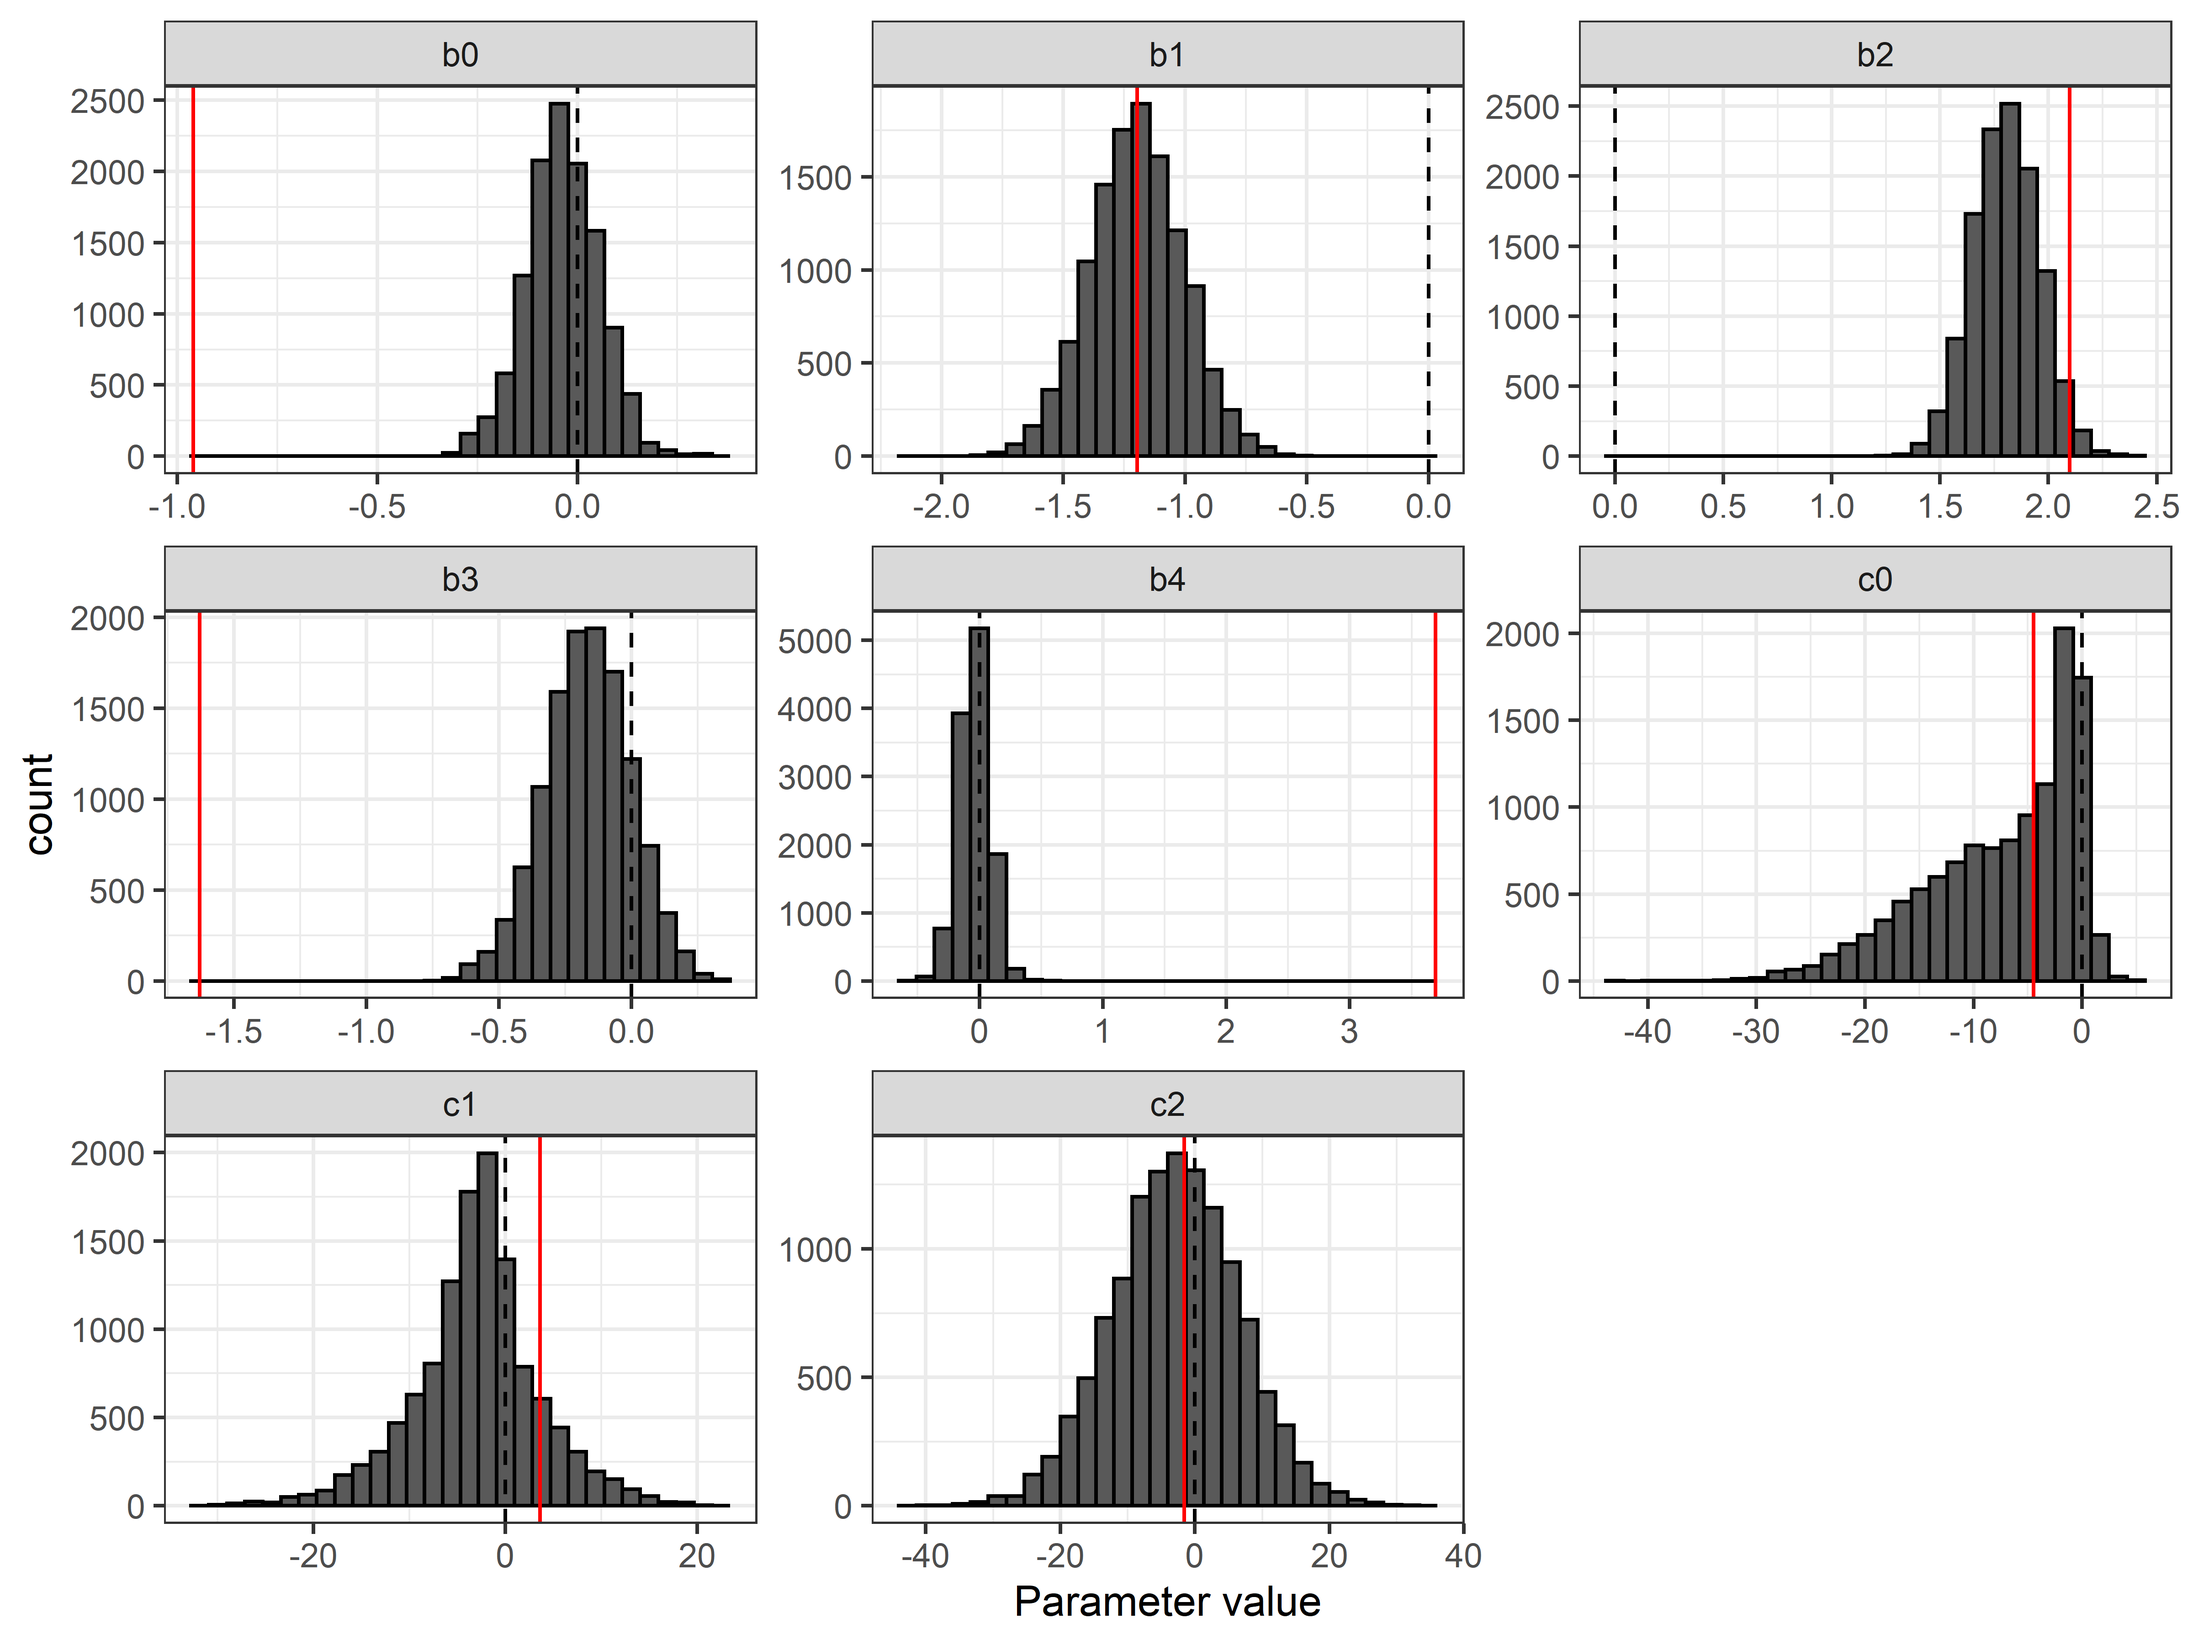
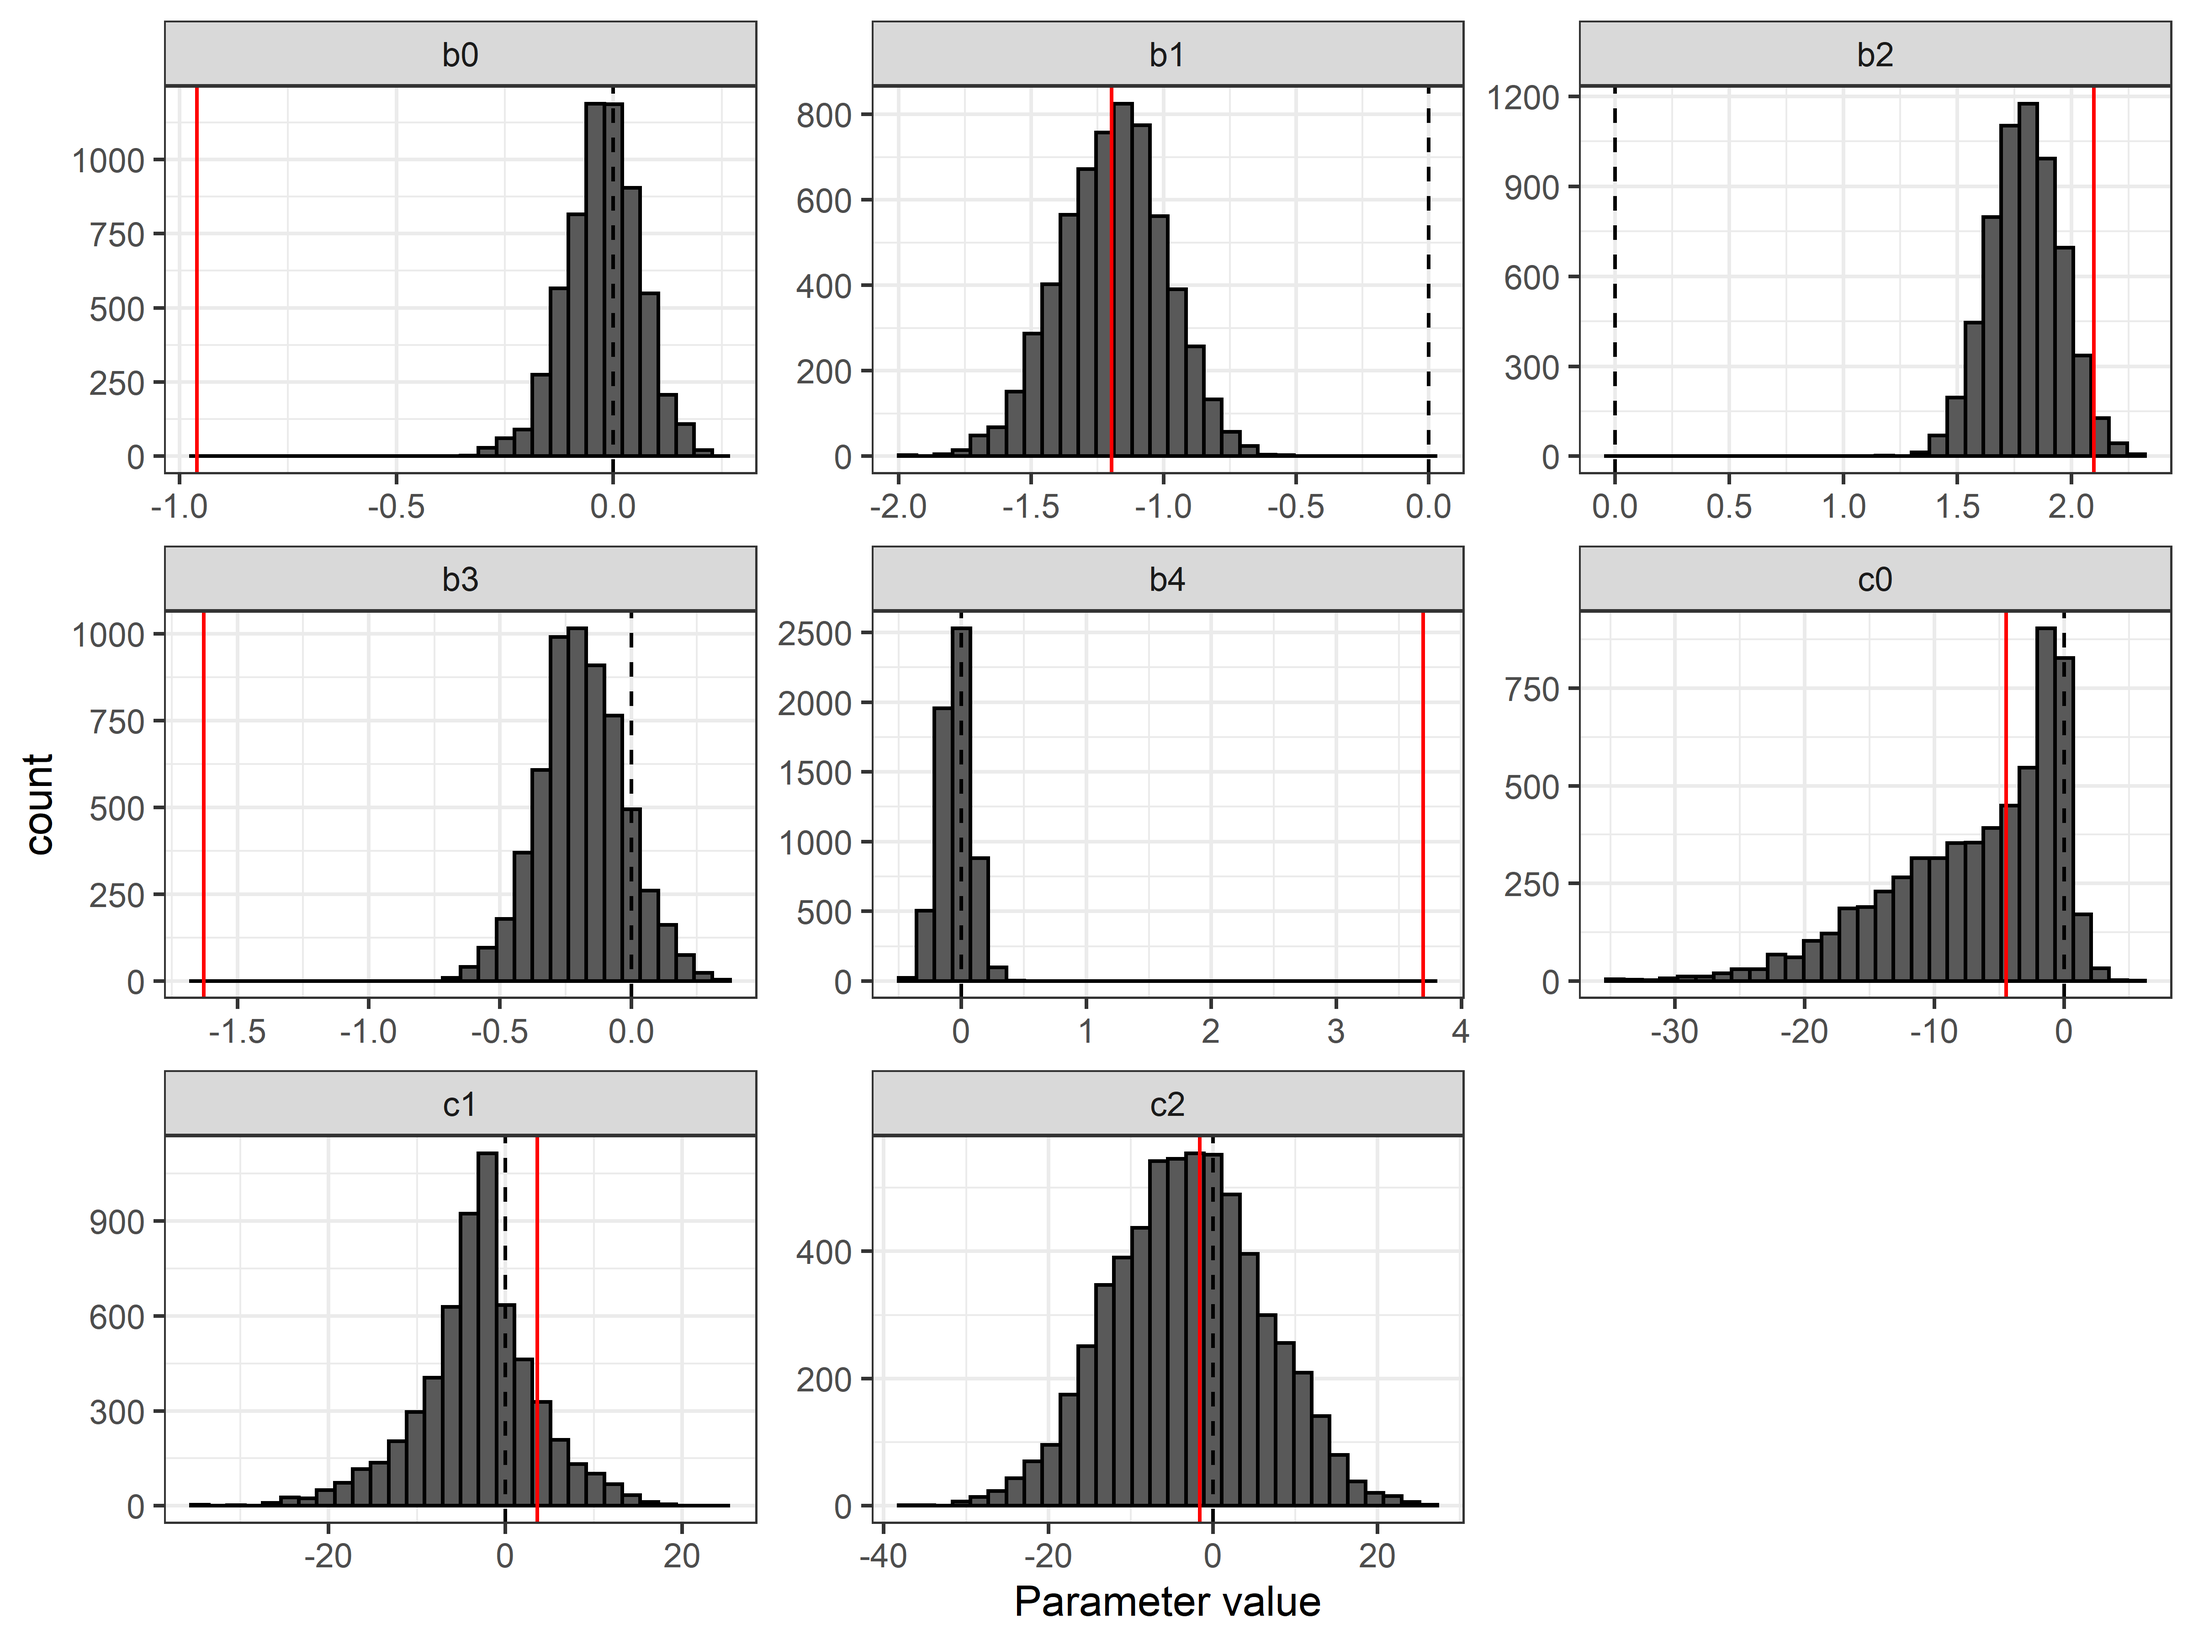
Added a plot

diff --git a/index.md b/index.md
@@ -348,7 +348,7 @@ list(
   tar_target(jags_simulated, 
              fit_mortality(data_jags_generated$data, n.chains = 3, n.iter = 5000, n.burn = 1000, n.thin = 1)), 
   tar_target(jags_simulated_2, 
-             fit_mortality_2(data_jags_generated_2$data, n.chains = 3, n.iter = 5000, n.burn = 1000, n.thin = 1)))
+             fit_mortality_2(data_jags_generated_2$data, n.chains = 3, n.iter = 5000, n.burn = 3000, n.thin = 1)))
 
 #> Establish _targets.R and _targets_r/targets/fit-mortality-France.R.
 ```
@@ -392,6 +392,8 @@ list(
              plot_harvest_probability(NFI_tree_alive_remeasure, NFI_plot_remeasure, NFI_tree_alive)),
   tar_target(plot_probability_to_be_harvested2, 
              plot_harvest_probability2(NFI_tree_alive_remeasure, NFI_plot_remeasure, NFI_tree_alive)), 
+  tar_target(fig_status_disturbance, 
+             plot_status_disturbance(NFI_tree, NFI_tree_remeasured, NFI_plot_remeasure, NFI_species)),
   tar_target(fig_convergence_simulated, plot_convergence(jags_simulated, "Simulated data - Dj latent")), 
   tar_target(fig_convergence_simulated_2, plot_convergence(jags_simulated_2, "Simulated data - Dj true data")), 
   tar_target(fig_compare_jags_simulated, plot_compare_jags_simulated(data_jags_generated, jags_simulated)), 
@@ -491,6 +493,18 @@ cowplot::plot_grid(
 ```
 
 <img src="plots/fig_plot-disturbedArea-perMortalityRate-200m-harvest-1.png" style="display: block; margin: auto;" />
+
+
+The plot below shows how the tree status (percentage of the basal area) changes with the occurence, nature and severity of a disturbance at the plot level (based on French NFI tru estimation of disturbance). 
+
+
+```r
+tar_read(fig_status_disturbance)
+```
+
+<img src="plots/fig_fig-status-disturbance-FrenchNFI-1.png" style="display: block; margin: auto;" />
+
+
 
 
 
